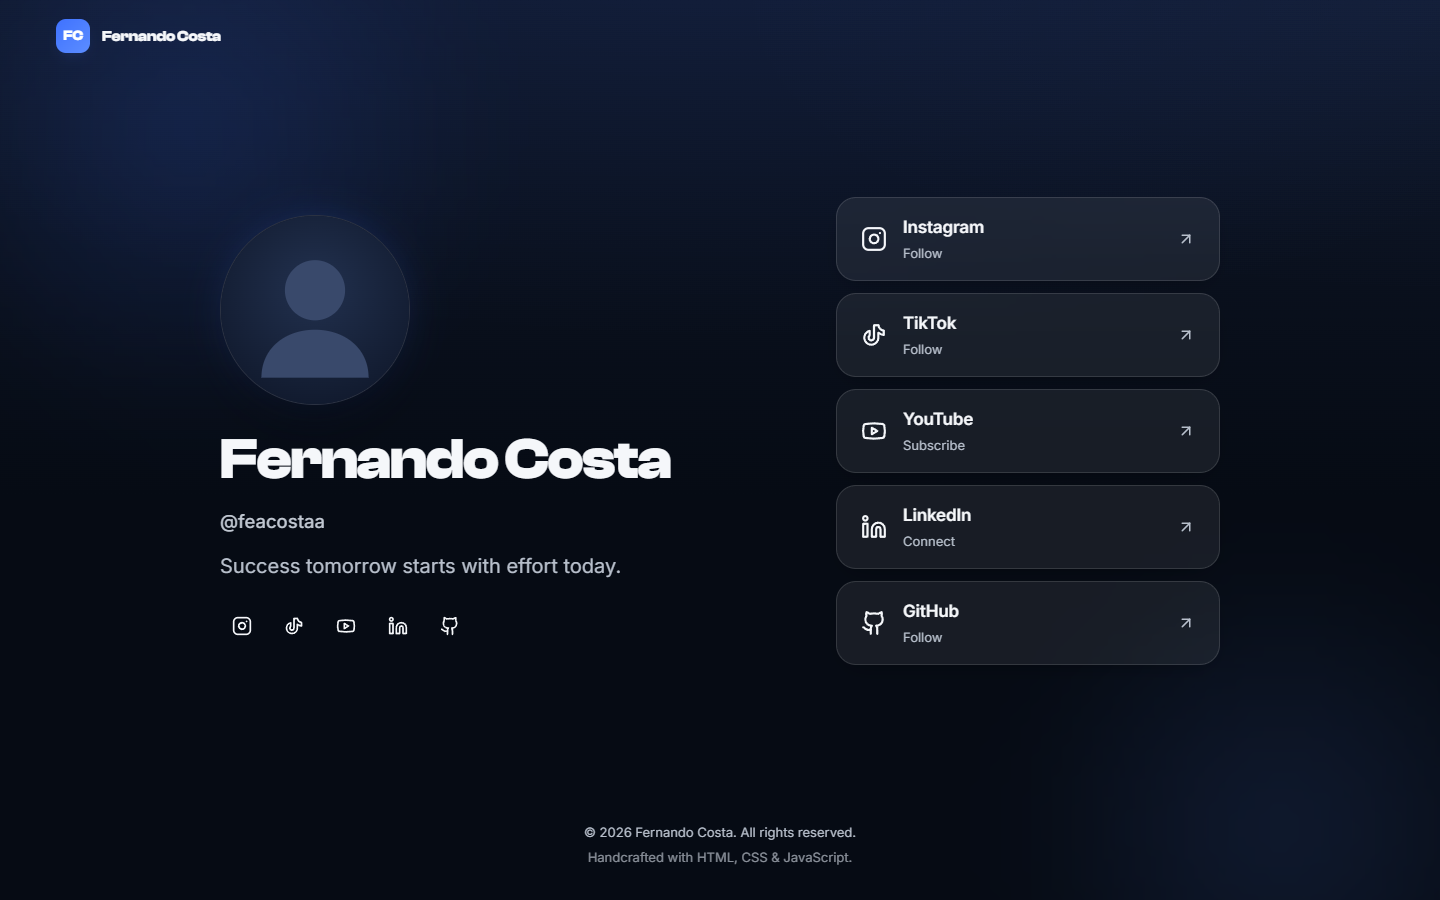
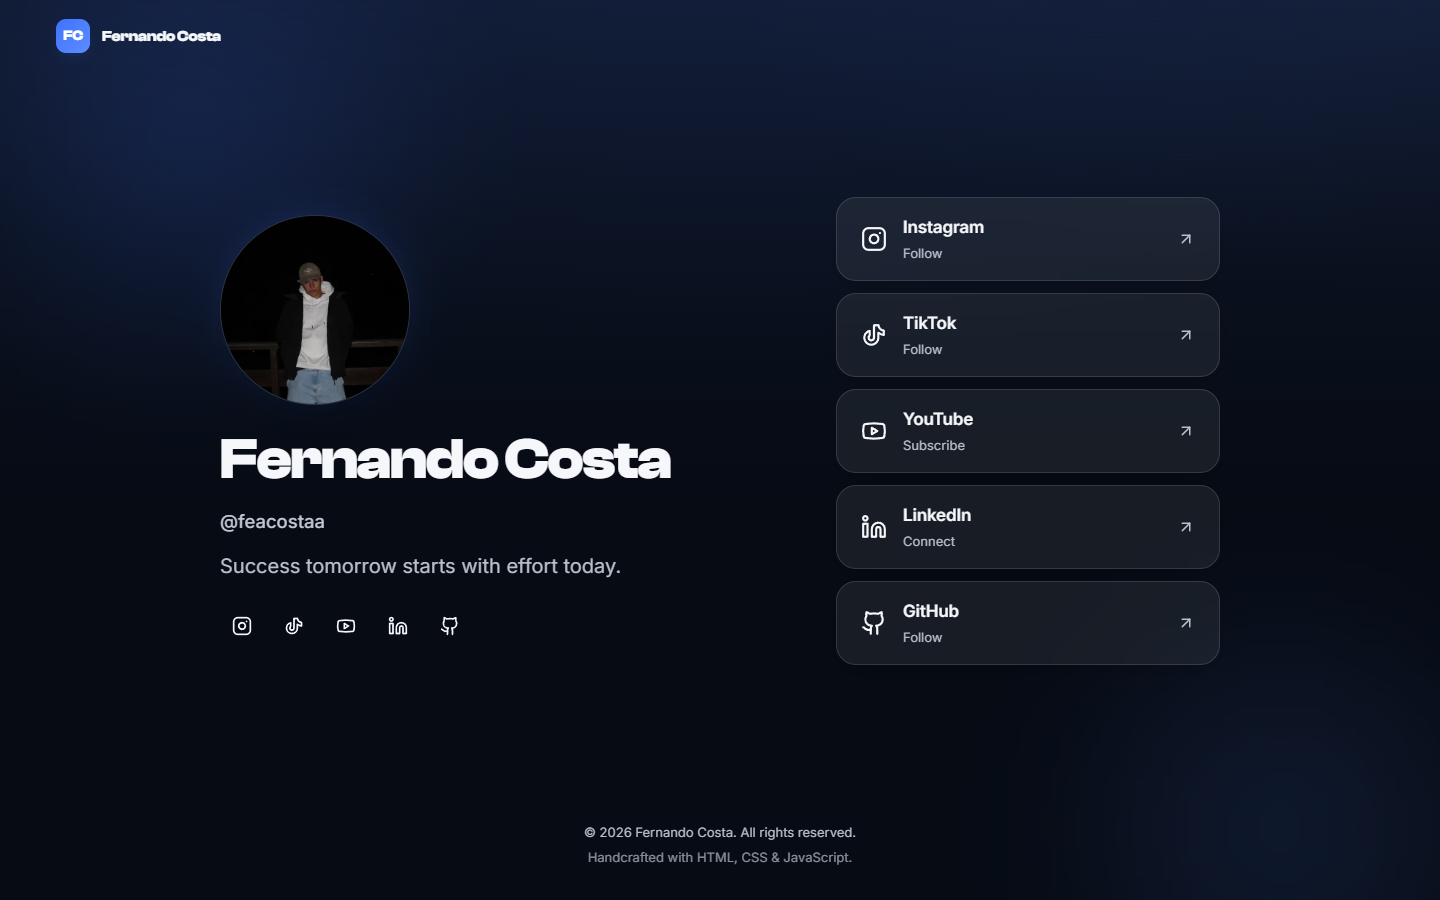
feat: add optimized profile photo (WebP + picture element)
- Square crop (512px) exported as WebP (5KB) and JPEG (10KB), down from 1.5MB
- <picture> with WebP source and JPEG fallback; lowercase name for
  case-sensitive hosts
- Full-resolution original preserved in assets/images

Changed region(s): [[0.1562, 0.2178, 0.2812, 0.4667]]

diff --git a/index.html b/index.html
@@ -127,8 +127,11 @@
 
         <!-- Hero / identity column -->
         <section class="profile" id="hero" aria-label="Profile">
-            <img class="profile__avatar" data-animate src="assets/profile/fernando-costa.jpg"
-                alt="Portrait of Fernando Costa" width="400" height="400" fetchpriority="high" decoding="async">
+            <picture>
+                <source type="image/webp" srcset="assets/profile/fernando-costa.webp">
+                <img class="profile__avatar" data-animate src="assets/profile/fernando-costa.jpg"
+                    alt="Portrait of Fernando Costa" width="512" height="512" fetchpriority="high" decoding="async">
+            </picture>
 
             <h1 class="profile__title" data-animate style="--stagger: 50ms">Fernando Costa</h1>
             <p class="profile__subtitle" data-animate style="--stagger: 100ms">@feacostaa</p>
